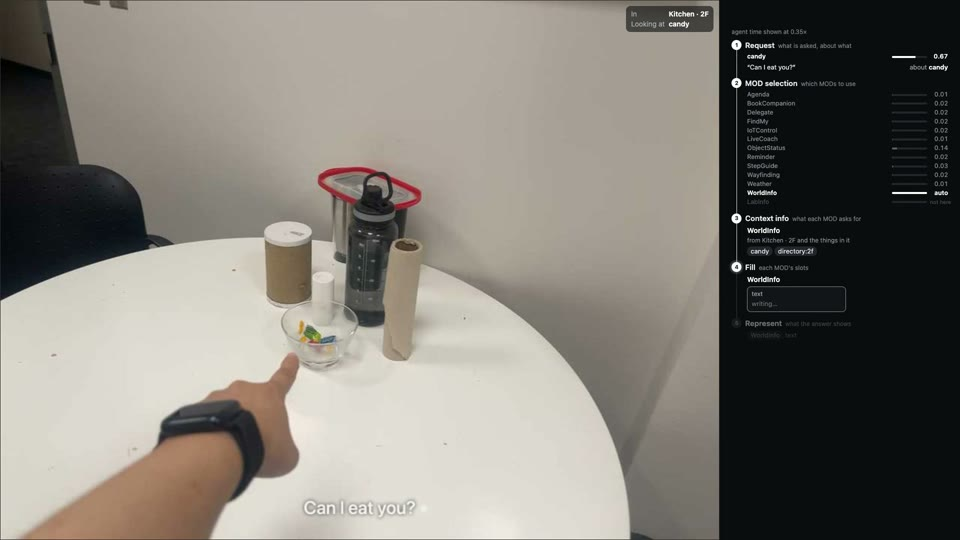
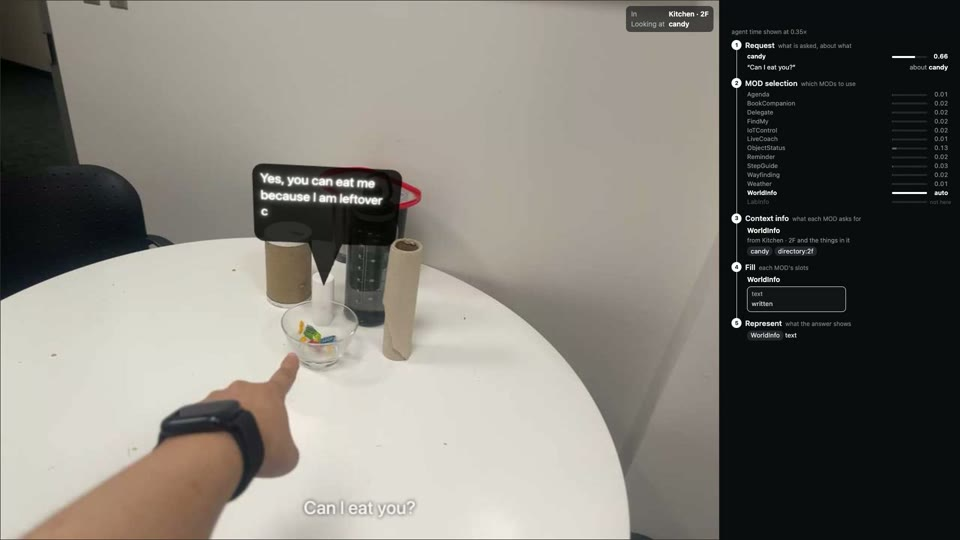
WorldInfo voice clip re-recorded

Changed region(s): [[0.25, 0.2963, 0.4375, 0.5333], [0.75, 0.563, 0.875, 0.6519], [0.75, 0.4741, 0.7812, 0.5037]]

diff --git a/recordings/manifest.js b/recordings/manifest.js
@@ -1,1 +1,1 @@
-window.MANIFEST={"clips":{"weather-corridor":{"name":"weather-corridor","mod":"Weather","question":"Do I need an umbrella tonight?","recording":"atlas_rec_2","ask_at":1,"video":"weather/weather-corridor.mp4","poster":"weather/weather-corridor.jpg","chosen":[["weather",0.98]],"answer":{"title":"No Umbrella Needed Tonight","body":"You won't need an umbrella tonight as soft snowfall is forecasted instead of rain."},"latency":1.23,"agent_speed":0.35},"worldinfo-text":{"name":"worldinfo-text","mod":"WorldInfo","question":"What is this study about?","recording":"atlas_rec_3","ask_at":48.6,"video":"worldinfo/worldinfo-text.mp4","poster":"worldinfo/worldinfo-text.jpg","chosen":[["worldinfo",1]],"answer":{"title":"Music-Brain User Study Details","body":"This user study is conducted by the Brain Music Lab. You can scan to sign up after reading the eligibility requirements."},"latency":2.99,"agent_speed":0.35},"delegate-poster":{"name":"delegate-poster","mod":"Delegate","question":"Send this poster to Alice","recording":"atlas_rec_2","ask_at":7.1,"video":"delegate/delegate-poster.mp4","poster":"delegate/delegate-poster.jpg","chosen":[["delegate",0.98]],"answer":{"title":"Anastasia's Talk Poster","body":"Hi Alice, here is the poster for Anastasia's talk for your reference."},"latency":2.71,"agent_speed":0.35},"worldinfo-voice":{"name":"worldinfo-voice","mod":"WorldInfo","question":"Can I eat you?","recording":"atlas_rec_3","ask_at":18.1,"video":"worldinfo/worldinfo-voice.mp4","poster":"worldinfo/worldinfo-voice.jpg","chosen":[["worldinfo",1]],"answer":{"title":"Eat me?","body":"Yes, you can help yourself to me as I am this week's grad tea leftovers."},"latency":2.73,"agent_speed":0.35},"labinfo-wall":{"name":"labinfo-wall","mod":"LabInfo","question":"What is this lab about?","recording":"atlas_rec_4","ask_at":1,"video":"labinfo/labinfo-wall.mp4","poster":"labinfo/labinfo-wall.jpg","chosen":[["labinfo",0.9]],"answer":{"title":"Programmable Reality Lab Research","body":"This lab aims to make our living environment dynamic, interactive, and programmable using AR, VR, robotics, and shape-changing interfaces."},"latency":1.97,"agent_speed":0.35},"findmy":{"name":"findmy","mod":"FindMy","question":"Where are my headphones?","recording":"atlas_rec_4","ask_at":7,"video":"findmy/findmy.mp4","poster":"findmy/findmy.jpg","chosen":[["findmy",0.92]],"answer":{"title":"Headphones Location","body":"Your headphones are on shelf 3."},"latency":1.02,"agent_speed":0.35},"wayfinding-kitchen":{"name":"wayfinding-kitchen","mod":"Wayfinding","question":"How do I get to the kitchen?","recording":"atlas_rec_4","ask_at":1,"video":"wayfinding/wayfinding-kitchen.mp4","poster":"wayfinding/wayfinding-kitchen.jpg","chosen":[["wayfinding",0.98]],"answer":{"title":"Directions to the Kitchen","body":"Exit the lab, turn right into the lab corridor, go north to the central corridor, and find the kitchen on your left."},"latency":1.05,"agent_speed":0.35},"agenda-afternoon":{"name":"agenda-afternoon","mod":"Agenda","question":"What do I have this afternoon?","recording":"atlas_rec_4","ask_at":2.5,"video":"agenda/agenda-afternoon.mp4","poster":"agenda/agenda-afternoon.jpg","chosen":[["agenda",0.97]],"answer":{"title":"Afternoon Schedule","body":"You have badminton and a group meeting this afternoon."},"latency":1.16,"agent_speed":0.35},"labinfo-panorama":{"name":"labinfo-panorama","mod":"LabInfo","question":"What does this lab work on?","recording":"atlas_rec_5","ask_at":1,"video":"labinfo/labinfo-panorama.mp4","poster":"labinfo/labinfo-panorama.jpg","chosen":[["labinfo",0.95]],"answer":{"title":"Programmable Reality Lab Research","body":"PRL researches programmable reality, aiming to make the living environment dynamic and interactive through AR/VR, robotics, and shape-changing interfaces."},"latency":1.76,"agent_speed":0.35},"weather-lab":{"name":"weather-lab","mod":"Weather","question":"Will it rain this weekend?","recording":"atlas_rec_5","ask_at":1.5,"video":"weather/weather-lab.mp4","poster":"weather/weather-lab.jpg","chosen":[["weather",0.98]],"answer":{"title":"Weekend weather forecast","body":"No rain is expected this weekend. Saturday brings drifting mist, clear skies, and soft snowfall, while Sunday features drifting mist and soft snowfall."},"latency":1.24,"agent_speed":0.35},"iotcontrol-brighter":{"name":"iotcontrol-brighter","mod":"IoTControl","question":"I want to make the light brighter","recording":"atlas_rec_5","ask_at":1,"video":"iotcontrol/iotcontrol-brighter.mp4","poster":"iotcontrol/iotcontrol-brighter.jpg","chosen":[["iotcontrol",0.98]],"answer":{"title":"Desk Lamp Brightness Increased","body":"I have increased the desk lamp brightness to 60 percent."},"latency":1.04,"agent_speed":0.35},"objectstatus-printer":{"name":"objectstatus-printer","mod":"ObjectStatus","question":"Is the printer free?","recording":"atlas_rec_5","ask_at":1,"video":"objectstatus/objectstatus-printer.mp4","poster":"objectstatus/objectstatus-printer.jpg","chosen":[["objectstatus",0.98]],"answer":{"title":"Printer Status","body":"No, the printer is in use printing a 12-page poster for Ana and has about 4 minutes left."},"latency":1.15,"agent_speed":0.35},"iotcontrol-printer":{"name":"iotcontrol-printer","mod":"IoTControl","question":"How long until my print job is done?","recording":"atlas_rec_5","ask_at":1,"video":"iotcontrol/iotcontrol-printer.mp4","poster":"iotcontrol/iotcontrol-printer.jpg","chosen":[["iotcontrol",0.98]],"answer":{"title":"Print job status","body":"Your print job has about 2 minutes left."},"latency":1.07,"agent_speed":0.35},"bookcompanion-lighthouse":{"name":"bookcompanion-lighthouse","mod":"BookCompanion","question":"Remind me what happened in the part I'm reading","recording":"atlas_rec_5","ask_at":5,"video":"bookcompanion/bookcompanion-lighthouse.mp4","poster":"bookcompanion/bookcompanion-lighthouse.jpg","chosen":[["bookcompanion",0.92]],"answer":{"title":"Current Reading","body":"No information about the part you are reading is currently available."},"latency":0.97,"agent_speed":0.35},"stepguide-espresso":{"name":"stepguide-espresso","mod":"StepGuide","question":"How do I make an espresso with this?","recording":"atlas_rec_5","ask_at":47,"video":"stepguide/stepguide-espresso.mp4","poster":"stepguide/stepguide-espresso.jpg","chosen":[["stepguide",0.9]],"answer":{"title":"Making an espresso","body":"Fill the water tank to the MAX line, grind 18 g of beans, tamp firmly, lock the portafilter in, and press the double-cup button."},"latency":1.2,"agent_speed":0.35},"livecoach-stretch":{"name":"livecoach-stretch","mod":"LiveCoach","question":"How should I stretch after sitting all day?","recording":"atlas_rec_5","ask_at":5.5,"video":"livecoach/livecoach-stretch.mp4","poster":"livecoach/livecoach-stretch.jpg","chosen":[["livecoach",0.64]],"answer":{"title":"Post-Sitting Stretch Routine","body":"Tilt ears to shoulders, roll shoulders back, round upper back, open chest, and do a seated spine twist."},"latency":1.2,"agent_speed":0.35},"reminder-espresso":{"name":"reminder-espresso","mod":"Reminder","question":"Remind me to refill the water tank tomorrow morning","recording":"atlas_rec_5","ask_at":48.5,"video":"reminder/reminder-espresso.mp4","poster":"reminder/reminder-espresso.jpg","chosen":[["reminder",0.97]],"answer":{"title":"Water Tank Reminder","body":"I will remind you to refill the water tank tomorrow morning."},"latency":1.04,"agent_speed":0.35},"weather-umbrella":{"name":"weather-umbrella","mod":"Weather","question":"Should I bring my umbrella?","recording":"atlas_rec_5","ask_at":1.5,"video":"weather/weather-umbrella.mp4","poster":"weather/weather-umbrella.jpg","chosen":[["findmy",0.59],["weather",0.96]],"answer":{"title":"Umbrella Check","body":"Yes, bring your umbrella because soft snowfall is expected this evening."},"latency":1.08,"agent_speed":0.35},"iotcontrol-tv":{"name":"iotcontrol-tv","mod":"IoTControl","question":"Switch the TV to HDMI 2","recording":"atlas_rec_5","ask_at":1,"video":"iotcontrol/iotcontrol-tv.mp4","poster":"iotcontrol/iotcontrol-tv.jpg","chosen":[["iotcontrol",0.99]],"answer":{"title":"TV Input Switched","body":"The TV is now set to HDMI 2."},"latency":0.99,"agent_speed":0.35},"delegate-describe":{"name":"delegate-describe","mod":"Delegate","question":"Describe this and draft a message to Alice","recording":"atlas_rec_2","ask_at":7.1,"video":"delegate/delegate-describe.mp4","poster":"delegate/delegate-describe.jpg","chosen":[["delegate",0.66]],"answer":{"title":"Anastasia's Talk Poster","body":"Anastasia Kouvaras Ostrowski, Assistant Professor at Purdue, focuses on HRI, HCI, and human-centered AI."},"latency":2.84,"agent_speed":0.35},"delegate-photo":{"name":"delegate-photo","mod":"Delegate","question":"Take a photo of this and send it to Alice","recording":"atlas_rec_2","ask_at":7.1,"video":"delegate/delegate-photo.mp4","poster":"delegate/delegate-photo.jpg","chosen":[["delegate",0.97]],"answer":{"title":"Poster of Anastasia's Talk","body":"Here is a photo of the Poster of Anastasia's Talk for you."},"latency":2.71,"agent_speed":0.35}},"recorded":"2026-11-18T01:58:33.049Z"};
+window.MANIFEST={"clips":{"weather-corridor":{"name":"weather-corridor","mod":"Weather","question":"Do I need an umbrella tonight?","recording":"atlas_rec_2","ask_at":1,"video":"weather/weather-corridor.mp4","poster":"weather/weather-corridor.jpg","chosen":[["weather",0.98]],"answer":{"title":"No Umbrella Needed Tonight","body":"You won't need an umbrella tonight as soft snowfall is forecasted instead of rain."},"latency":1.23,"agent_speed":0.35},"worldinfo-text":{"name":"worldinfo-text","mod":"WorldInfo","question":"What is this study about?","recording":"atlas_rec_3","ask_at":48.6,"video":"worldinfo/worldinfo-text.mp4","poster":"worldinfo/worldinfo-text.jpg","chosen":[["worldinfo",1]],"answer":{"title":"Music-Brain User Study Details","body":"This user study is conducted by the Brain Music Lab. You can scan to sign up after reading the eligibility requirements."},"latency":2.99,"agent_speed":0.35},"delegate-poster":{"name":"delegate-poster","mod":"Delegate","question":"Send this poster to Alice","recording":"atlas_rec_2","ask_at":7.1,"video":"delegate/delegate-poster.mp4","poster":"delegate/delegate-poster.jpg","chosen":[["delegate",0.98]],"answer":{"title":"Anastasia's Talk Poster","body":"Hi Alice, here is the poster for Anastasia's talk for your reference."},"latency":2.71,"agent_speed":0.35},"worldinfo-voice":{"name":"worldinfo-voice","mod":"WorldInfo","question":"Can I eat you?","recording":"atlas_rec_3","ask_at":18.1,"video":"worldinfo/worldinfo-voice.mp4","poster":"worldinfo/worldinfo-voice.jpg","chosen":[["worldinfo",1]],"answer":{"title":"Candy Availability","body":"Yes, you can eat me because I am leftover candy from this week's grad tea and people are welcome to help themselves."},"latency":2.48,"agent_speed":0.35},"labinfo-wall":{"name":"labinfo-wall","mod":"LabInfo","question":"What is this lab about?","recording":"atlas_rec_4","ask_at":1,"video":"labinfo/labinfo-wall.mp4","poster":"labinfo/labinfo-wall.jpg","chosen":[["labinfo",0.9]],"answer":{"title":"Programmable Reality Lab Research","body":"This lab aims to make our living environment dynamic, interactive, and programmable using AR, VR, robotics, and shape-changing interfaces."},"latency":1.97,"agent_speed":0.35},"findmy":{"name":"findmy","mod":"FindMy","question":"Where are my headphones?","recording":"atlas_rec_4","ask_at":7,"video":"findmy/findmy.mp4","poster":"findmy/findmy.jpg","chosen":[["findmy",0.92]],"answer":{"title":"Headphones Location","body":"Your headphones are on shelf 3."},"latency":1.02,"agent_speed":0.35},"wayfinding-kitchen":{"name":"wayfinding-kitchen","mod":"Wayfinding","question":"How do I get to the kitchen?","recording":"atlas_rec_4","ask_at":1,"video":"wayfinding/wayfinding-kitchen.mp4","poster":"wayfinding/wayfinding-kitchen.jpg","chosen":[["wayfinding",0.98]],"answer":{"title":"Directions to the Kitchen","body":"Exit the lab, turn right into the lab corridor, go north to the central corridor, and find the kitchen on your left."},"latency":1.05,"agent_speed":0.35},"agenda-afternoon":{"name":"agenda-afternoon","mod":"Agenda","question":"What do I have this afternoon?","recording":"atlas_rec_4","ask_at":2.5,"video":"agenda/agenda-afternoon.mp4","poster":"agenda/agenda-afternoon.jpg","chosen":[["agenda",0.97]],"answer":{"title":"Afternoon Schedule","body":"You have badminton and a group meeting this afternoon."},"latency":1.16,"agent_speed":0.35},"labinfo-panorama":{"name":"labinfo-panorama","mod":"LabInfo","question":"What does this lab work on?","recording":"atlas_rec_5","ask_at":1,"video":"labinfo/labinfo-panorama.mp4","poster":"labinfo/labinfo-panorama.jpg","chosen":[["labinfo",0.95]],"answer":{"title":"Programmable Reality Lab Research","body":"PRL researches programmable reality, aiming to make the living environment dynamic and interactive through AR/VR, robotics, and shape-changing interfaces."},"latency":1.76,"agent_speed":0.35},"weather-lab":{"name":"weather-lab","mod":"Weather","question":"Will it rain this weekend?","recording":"atlas_rec_5","ask_at":1.5,"video":"weather/weather-lab.mp4","poster":"weather/weather-lab.jpg","chosen":[["weather",0.98]],"answer":{"title":"Weekend weather forecast","body":"No rain is expected this weekend. Saturday brings drifting mist, clear skies, and soft snowfall, while Sunday features drifting mist and soft snowfall."},"latency":1.24,"agent_speed":0.35},"iotcontrol-brighter":{"name":"iotcontrol-brighter","mod":"IoTControl","question":"I want to make the light brighter","recording":"atlas_rec_5","ask_at":1,"video":"iotcontrol/iotcontrol-brighter.mp4","poster":"iotcontrol/iotcontrol-brighter.jpg","chosen":[["iotcontrol",0.98]],"answer":{"title":"Desk Lamp Brightness Increased","body":"I have increased the desk lamp brightness to 60 percent."},"latency":1.04,"agent_speed":0.35},"objectstatus-printer":{"name":"objectstatus-printer","mod":"ObjectStatus","question":"Is the printer free?","recording":"atlas_rec_5","ask_at":1,"video":"objectstatus/objectstatus-printer.mp4","poster":"objectstatus/objectstatus-printer.jpg","chosen":[["objectstatus",0.98]],"answer":{"title":"Printer Status","body":"No, the printer is in use printing a 12-page poster for Ana and has about 4 minutes left."},"latency":1.15,"agent_speed":0.35},"iotcontrol-printer":{"name":"iotcontrol-printer","mod":"IoTControl","question":"How long until my print job is done?","recording":"atlas_rec_5","ask_at":1,"video":"iotcontrol/iotcontrol-printer.mp4","poster":"iotcontrol/iotcontrol-printer.jpg","chosen":[["iotcontrol",0.98]],"answer":{"title":"Print job status","body":"Your print job has about 2 minutes left."},"latency":1.07,"agent_speed":0.35},"bookcompanion-lighthouse":{"name":"bookcompanion-lighthouse","mod":"BookCompanion","question":"Remind me what happened in the part I'm reading","recording":"atlas_rec_5","ask_at":5,"video":"bookcompanion/bookcompanion-lighthouse.mp4","poster":"bookcompanion/bookcompanion-lighthouse.jpg","chosen":[["bookcompanion",0.92]],"answer":{"title":"Current Reading","body":"No information about the part you are reading is currently available."},"latency":0.97,"agent_speed":0.35},"stepguide-espresso":{"name":"stepguide-espresso","mod":"StepGuide","question":"How do I make an espresso with this?","recording":"atlas_rec_5","ask_at":47,"video":"stepguide/stepguide-espresso.mp4","poster":"stepguide/stepguide-espresso.jpg","chosen":[["stepguide",0.9]],"answer":{"title":"Making an espresso","body":"Fill the water tank to the MAX line, grind 18 g of beans, tamp firmly, lock the portafilter in, and press the double-cup button."},"latency":1.2,"agent_speed":0.35},"livecoach-stretch":{"name":"livecoach-stretch","mod":"LiveCoach","question":"How should I stretch after sitting all day?","recording":"atlas_rec_5","ask_at":5.5,"video":"livecoach/livecoach-stretch.mp4","poster":"livecoach/livecoach-stretch.jpg","chosen":[["livecoach",0.64]],"answer":{"title":"Post-Sitting Stretch Routine","body":"Tilt ears to shoulders, roll shoulders back, round upper back, open chest, and do a seated spine twist."},"latency":1.2,"agent_speed":0.35},"reminder-espresso":{"name":"reminder-espresso","mod":"Reminder","question":"Remind me to refill the water tank tomorrow morning","recording":"atlas_rec_5","ask_at":48.5,"video":"reminder/reminder-espresso.mp4","poster":"reminder/reminder-espresso.jpg","chosen":[["reminder",0.97]],"answer":{"title":"Water Tank Reminder","body":"I will remind you to refill the water tank tomorrow morning."},"latency":1.04,"agent_speed":0.35},"weather-umbrella":{"name":"weather-umbrella","mod":"Weather","question":"Should I bring my umbrella?","recording":"atlas_rec_5","ask_at":1.5,"video":"weather/weather-umbrella.mp4","poster":"weather/weather-umbrella.jpg","chosen":[["findmy",0.59],["weather",0.96]],"answer":{"title":"Umbrella Check","body":"Yes, bring your umbrella because soft snowfall is expected this evening."},"latency":1.08,"agent_speed":0.35},"iotcontrol-tv":{"name":"iotcontrol-tv","mod":"IoTControl","question":"Switch the TV to HDMI 2","recording":"atlas_rec_5","ask_at":1,"video":"iotcontrol/iotcontrol-tv.mp4","poster":"iotcontrol/iotcontrol-tv.jpg","chosen":[["iotcontrol",0.99]],"answer":{"title":"TV Input Switched","body":"The TV is now set to HDMI 2."},"latency":0.99,"agent_speed":0.35},"delegate-describe":{"name":"delegate-describe","mod":"Delegate","question":"Describe this and draft a message to Alice","recording":"atlas_rec_2","ask_at":7.1,"video":"delegate/delegate-describe.mp4","poster":"delegate/delegate-describe.jpg","chosen":[["delegate",0.66]],"answer":{"title":"Anastasia's Talk Poster","body":"Anastasia Kouvaras Ostrowski, Assistant Professor at Purdue, focuses on HRI, HCI, and human-centered AI."},"latency":2.84,"agent_speed":0.35},"delegate-photo":{"name":"delegate-photo","mod":"Delegate","question":"Take a photo of this and send it to Alice","recording":"atlas_rec_2","ask_at":7.1,"video":"delegate/delegate-photo.mp4","poster":"delegate/delegate-photo.jpg","chosen":[["delegate",0.97]],"answer":{"title":"Poster of Anastasia's Talk","body":"Here is a photo of the Poster of Anastasia's Talk for you."},"latency":2.71,"agent_speed":0.35}},"recorded":"2026-11-18T02:04:04.720Z"};
